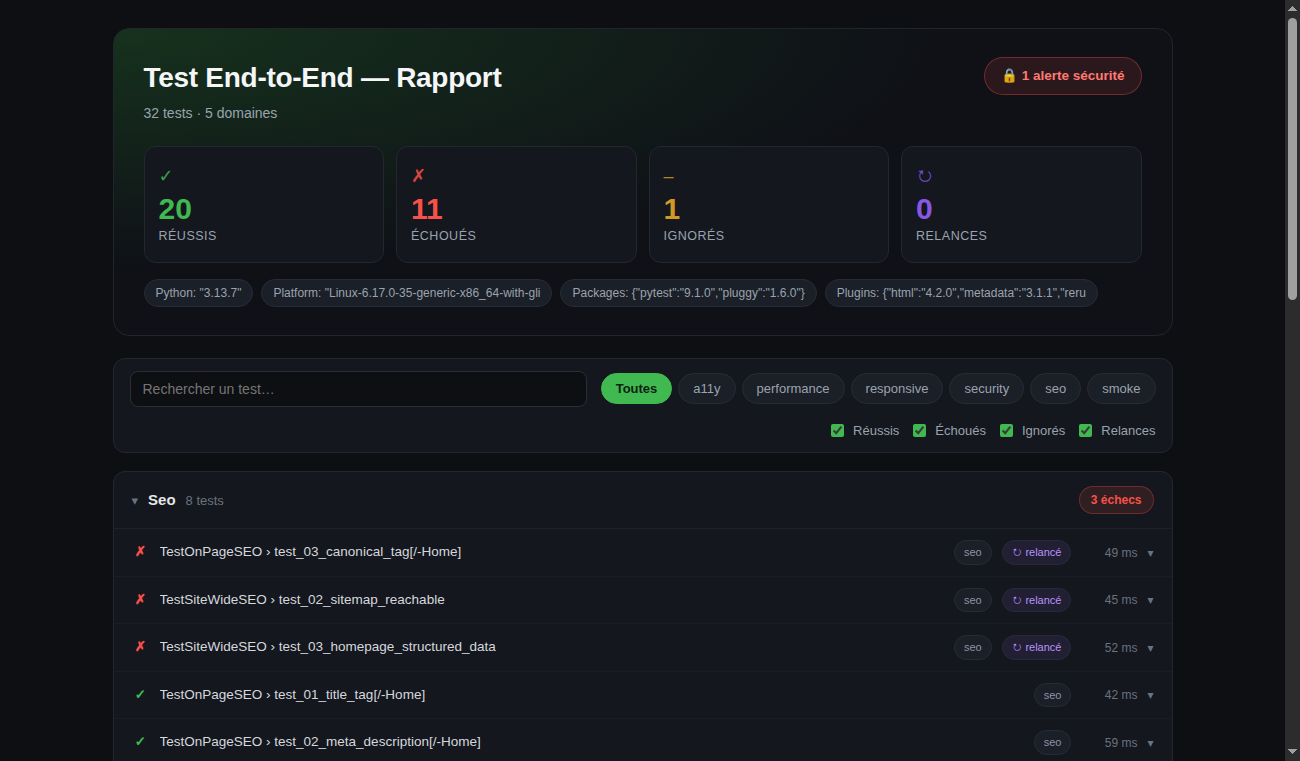
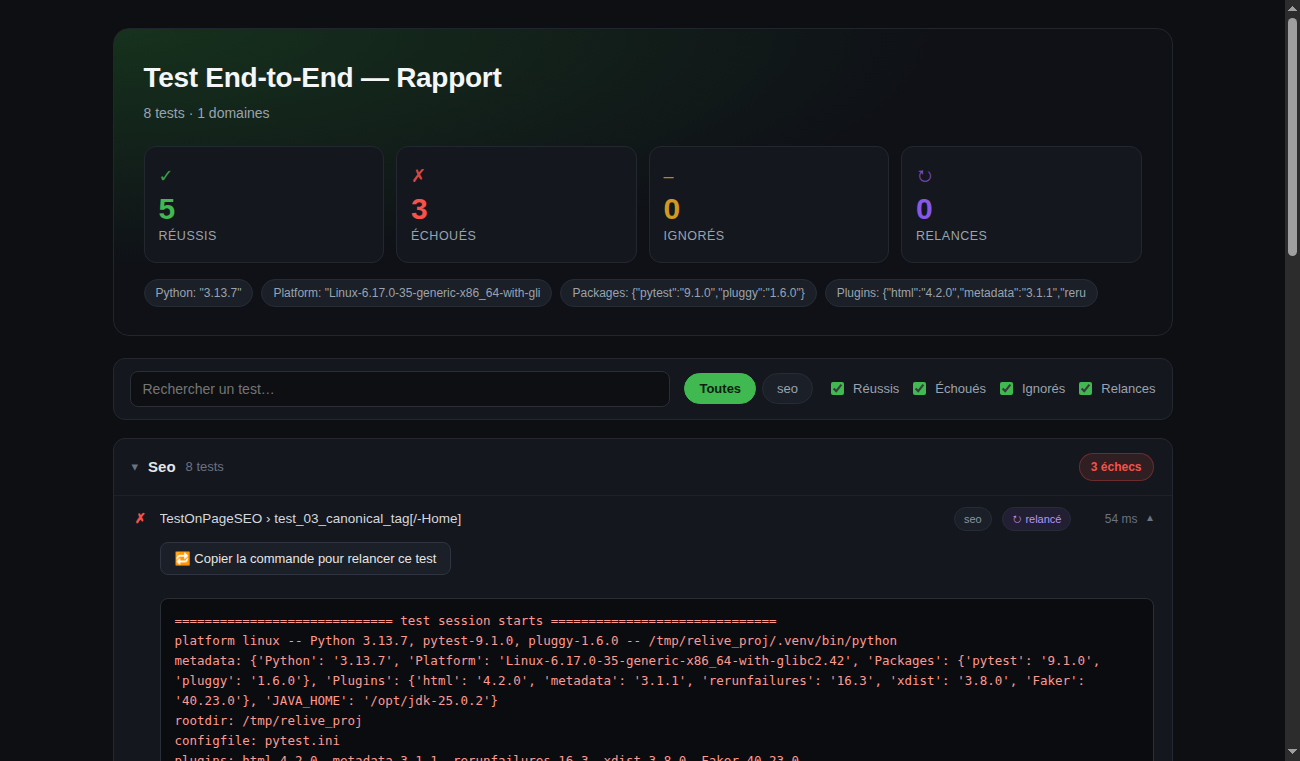
Lightbox image au clic + vrai bouton relance (live_server.py)
- report_theme.js : clic sur un screenshot l'ouvre en grand (overlay,
  Échap ou clic pour fermer)
- live_server.py (nouveau) : petit serveur local sans dépendance
  (stdlib http.server) qui sert tests/report.html ET expose
  POST /__rerun__ — quand le rapport est ouvert via ce serveur au lieu
  d'un double-clic sur le fichier, le bouton 'Relancer' exécute
  vraiment pytest pour CE test précis et met à jour la ligne en place
  (icône, log, compteurs du hero, badge du groupe) avec le vrai
  résultat. Sans serveur (fichier ouvert direct) : fallback silencieux
  vers la copie de commande, pas d'erreur affichée.
- Pourquoi pas avant : un fichier HTML statique (file://) n'a aucun
  backend, impossible d'exécuter du code depuis le navigateur seul —
  c'est la vraie limite, contournée ici en proposant un serveur local
  optionnel plutôt qu'en abandonnant la fonctionnalité.

Vérifié de bout en bout : live_server.py lancé, bouton cliqué via
Selenium, log serveur confirme 'POST /__rerun__ 200' + relance pytest
réelle, log affiché dans le rapport mis à jour avec la vraie sortie
de cette relance.

diff --git a/templates/e2e/report_theme.js b/templates/e2e/report_theme.js
@@ -192,6 +192,53 @@
     return root;
   }
 
+  function applyRerunResult(row, data) {
+    const oldResult = row.dataset.result;
+    const newResult = data.passed ? 'Passed' : 'Failed';
+    if (oldResult === newResult) {
+      // still the same bucket — just refresh the log text below
+      const log = row.querySelector('.tee-row__log');
+      if (log) log.textContent = data.output || log.textContent;
+      return;
+    }
+
+    row.classList.remove(`tee-row--${oldResult.toLowerCase()}`);
+    row.classList.add(`tee-row--${newResult.toLowerCase()}`);
+    row.dataset.result = newResult;
+    const icon = row.querySelector('.tee-row__icon');
+    if (icon) icon.textContent = RESULT_ICON[newResult] || '•';
+    const log = row.querySelector('.tee-row__log');
+    if (log) log.textContent = data.output || '';
+    const badge = document.createElement('span');
+    badge.className = 'tee-chip tee-chip--live';
+    badge.textContent = '🔄 relancé en direct';
+    row.querySelector('.tee-row__head').appendChild(badge);
+
+    // keep the hero stat cards honest after a live rerun
+    const bump = (key, delta) => {
+      const el = document.querySelector(`.tee-stat--${key.toLowerCase()} .tee-stat__value`);
+      if (el) el.textContent = String(Math.max(0, parseInt(el.textContent, 10) + delta));
+    };
+    bump(oldResult === 'Error' ? 'Failed' : oldResult, -1);
+    bump(newResult === 'Error' ? 'Failed' : newResult, 1);
+
+    // and the group's "N échecs" badge
+    const group = row.closest('.tee-group');
+    if (group) {
+      const stillBroken = group.querySelectorAll('.tee-row--failed, .tee-row--error').length;
+      const badgeEl = group.querySelector('.tee-chip--fail, .tee-chip--ok');
+      if (badgeEl) {
+        if (stillBroken > 0) {
+          badgeEl.className = 'tee-chip tee-chip--fail';
+          badgeEl.textContent = `${stillBroken} échec${stillBroken > 1 ? 's' : ''}`;
+        } else {
+          badgeEl.className = 'tee-chip tee-chip--ok';
+          badgeEl.textContent = 'OK';
+        }
+      }
+    }
+  }
+
   function wireInteractions(root) {
     // group collapse
     root.querySelectorAll('.tee-group__head').forEach((head) => {
@@ -204,26 +251,70 @@
       head.addEventListener('keydown', (e) => { if (e.key === 'Enter' || e.key === ' ') { e.preventDefault(); head.click(); } });
     });
 
-    // "relancer" button — copies the exact pytest command to the clipboard. A static HTML
-    // file genuinely cannot execute that command itself (no backend); this is the honest
-    // version of "make the button work": it performs a real, useful action.
+    // "relancer" button — tries a REAL re-run first via /__rerun__ (only answers if the
+    // report is opened through tests/live_server.py instead of double-clicked as a file).
+    // No server listening (plain file://, or report opened by just double-clicking it) →
+    // falls back to copying the exact pytest command, the next best honest thing.
     root.querySelectorAll('.tee-rerun-btn').forEach((btn) => {
       btn.addEventListener('click', (e) => {
         e.stopPropagation();
+        const row = btn.closest('.tee-row');
         const cmd = btn.dataset.cmd;
-        const original = btn.textContent;
-        const onOk = () => {
-          btn.textContent = '✓ Commande copiée — colle-la dans ton terminal';
-          btn.classList.add('is-copied');
-          setTimeout(() => { btn.textContent = original; btn.classList.remove('is-copied'); }, 2200);
+        const cmdMatch = cmd.match(/"([^"]+)"/);
+        const testId = cmdMatch ? cmdMatch[1] : '';
+        const original = btn.innerHTML;
+
+        const copyFallback = () => {
+          const onOk = () => {
+            btn.textContent = '✓ Commande copiée — colle-la dans ton terminal';
+            btn.classList.add('is-copied');
+            setTimeout(() => { btn.innerHTML = original; btn.classList.remove('is-copied'); }, 2200);
+          };
+          const onFail = () => { btn.textContent = `Copie manuelle : ${cmd}`; };
+          if (navigator.clipboard && navigator.clipboard.writeText) {
+            navigator.clipboard.writeText(cmd).then(onOk, onFail);
+          } else {
+            onFail();
+          }
         };
-        const onFail = () => { btn.textContent = `Copie manuelle : ${cmd}`; };
-        if (navigator.clipboard && navigator.clipboard.writeText) {
-          navigator.clipboard.writeText(cmd).then(onOk, onFail);
-        } else {
-          onFail();
-        }
+
+        btn.disabled = true;
+        btn.textContent = '⏳ relance en cours…';
+
+        fetch('/__rerun__', {
+          method: 'POST',
+          headers: { 'Content-Type': 'application/json' },
+          body: JSON.stringify({ testId }),
+        }).then((r) => {
+          if (!r.ok) throw new Error('no live server');
+          return r.json();
+        }).then((data) => {
+          applyRerunResult(row, data);
+          btn.disabled = false;
+          btn.textContent = data.passed ? '✓ relancé — réussi' : '✗ relancé — toujours en échec';
+          setTimeout(() => { btn.innerHTML = original; }, 2600);
+        }).catch(() => {
+          // No live_server.py running (plain static file) — that's expected most of the
+          // time, not an error to alarm about. Fall back silently to the copy action.
+          btn.disabled = false;
+          copyFallback();
+        });
       });
+    });
+
+    // Image lightbox — click a screenshot thumbnail to see it full size.
+    const lightbox = document.createElement('div');
+    lightbox.className = 'tee-lightbox';
+    lightbox.innerHTML = '<img alt="screenshot en grand">';
+    lightbox.addEventListener('click', () => lightbox.classList.remove('is-open'));
+    document.body.appendChild(lightbox);
+    document.addEventListener('keydown', (e) => { if (e.key === 'Escape') lightbox.classList.remove('is-open'); });
+    root.addEventListener('click', (e) => {
+      const img = e.target.closest('.tee-row__media img');
+      if (!img) return;
+      e.stopPropagation();
+      lightbox.querySelector('img').src = img.src;
+      lightbox.classList.add('is-open');
     });
 
     const state = { cat: '', q: '', results: new Set(['Passed', 'Failed', 'Skipped', 'Rerun']) };

diff --git a/templates/e2e/report-style.css b/templates/e2e/report-style.css
@@ -129,6 +129,17 @@ html, body {
 }
 .tee-rerun-btn:hover { background: #232a35; border-color: #3a4150; }
 .tee-rerun-btn.is-copied { background: rgba(63, 185, 80, .15); border-color: #3fb950; color: #3fb950; }
+.tee-rerun-btn:disabled { opacity: .6; cursor: wait; }
+
+.tee-chip--live { background: rgba(88, 166, 255, .12); color: #79c0ff; border-color: rgba(88,166,255,.35); font-size: 11px; padding: 3px 9px; }
+
+/* Image lightbox — click a screenshot thumbnail to see it full size */
+.tee-lightbox {
+  position: fixed; inset: 0; background: rgba(5, 6, 8, .9); display: none;
+  align-items: center; justify-content: center; z-index: 100; cursor: zoom-out; padding: 30px;
+}
+.tee-lightbox.is-open { display: flex; }
+.tee-lightbox img { max-width: 92vw; max-height: 92vh; border-radius: 10px; box-shadow: 0 24px 70px rgba(0,0,0,.6); cursor: default; }
 
 .tee-empty-state { text-align: center; color: #6b7280; padding: 60px 0; font-size: 14px; }
 .tee-empty-state:not([hidden]) { display: block; }

diff --git a/templates/e2e/live_server.py b/templates/e2e/live_server.py
@@ -1,0 +1,89 @@
+#!/usr/bin/env python3
+"""Optional live server — serves tests/report.html AND makes its "Relancer" button actually
+re-run the single test via a local /__rerun__ endpoint, instead of just copying the command.
+
+A plain `file://tests/report.html` has no backend to talk to — a browser can't execute
+pytest by itself. This is the difference: open the report through this server instead of
+double-clicking the file, and the button does the real thing.
+
+Usage:
+    python3 tests/live_server.py            # http://localhost:8765/tests/report.html
+    python3 tests/live_server.py 9000        # custom port
+"""
+import http.server
+import json
+import socketserver
+import subprocess
+import sys
+from pathlib import Path
+
+ROOT = Path(__file__).parent.parent
+PORT = int(sys.argv[1]) if len(sys.argv) > 1 else 8765
+
+
+class Handler(http.server.SimpleHTTPRequestHandler):
+    def __init__(self, *args, **kwargs):
+        super().__init__(*args, directory=str(ROOT), **kwargs)
+
+    def log_message(self, fmt, *args):
+        if '/__rerun__' in (self.path or ''):
+            super().log_message(fmt, *args)
+        # stay quiet for static asset requests — keeps the terminal readable
+
+    def _send_json(self, status, payload):
+        body = json.dumps(payload).encode('utf-8')
+        self.send_response(status)
+        self.send_header('Content-Type', 'application/json')
+        self.send_header('Content-Length', str(len(body)))
+        self.send_header('Access-Control-Allow-Origin', '*')
+        self.end_headers()
+        self.wfile.write(body)
+
+    def do_OPTIONS(self):
+        self.send_response(204)
+        self.send_header('Access-Control-Allow-Origin', '*')
+        self.send_header('Access-Control-Allow-Methods', 'POST, OPTIONS')
+        self.send_header('Access-Control-Allow-Headers', 'Content-Type')
+        self.end_headers()
+
+    def do_POST(self):
+        if self.path != '/__rerun__':
+            self._send_json(404, {'error': 'not found'})
+            return
+        length = int(self.headers.get('Content-Length', 0) or 0)
+        try:
+            data = json.loads(self.rfile.read(length) or b'{}')
+        except Exception:
+            data = {}
+        test_id = data.get('testId', '')
+        if not test_id:
+            self._send_json(400, {'error': 'testId manquant'})
+            return
+        print(f'[live] relance : {test_id}')
+        try:
+            result = subprocess.run(
+                [sys.executable, '-m', 'pytest', test_id, '-v', '--tb=short', '-p', 'no:cacheprovider'],
+                cwd=str(ROOT), capture_output=True, text=True, timeout=120,
+            )
+            self._send_json(200, {
+                'passed': result.returncode == 0,
+                'output': (result.stdout + result.stderr)[-4000:],
+            })
+        except subprocess.TimeoutExpired:
+            self._send_json(200, {'passed': False, 'output': 'Timeout après 120s.'})
+        except Exception as e:
+            self._send_json(500, {'error': str(e)})
+
+
+def main():
+    with socketserver.ThreadingTCPServer(('127.0.0.1', PORT), Handler) as httpd:
+        print(f'[live] Rapport : http://localhost:{PORT}/tests/report.html')
+        print('[live] Le bouton "Relancer" exécute vraiment le test depuis ce serveur. Ctrl+C pour arrêter.')
+        try:
+            httpd.serve_forever()
+        except KeyboardInterrupt:
+            print('\n[live] arrêté.')
+
+
+if __name__ == '__main__':
+    main()

diff --git a/templates/e2e/README.md b/templates/e2e/README.md
@@ -79,7 +79,19 @@ cp tests/pytest.ini.project-root pytest.ini
 TEST_HEADLESS=0 ./tests/run.sh          # visible browser (debug)
 ```
 
-Report: `tests/report.html` (self-contained, dark themed via `report-style.css`). Every failure embeds its screenshot + last console errors **directly in the report row** — no separate folder to dig through. A **Category** column (security/seo/a11y/responsive/performance/admin/stripe/smoke) makes it obvious at a glance what kind of issue failed — security rows get a red 🔒 badge. Every assertion message in `utils/security_checks.py` and `utils/seo_checks.py` explains **what's wrong, why it matters, and how to fix it** — not just "assert failed". Every `pytest.skip()` in this template carries an explicit reason, shown in the report, so a skip never looks like a silent gap. JUnit XML at `tests/junit.xml` for CI.
+Report: `tests/report.html` (self-contained, dark themed via `report-style.css`). Every failure embeds its screenshot + last console errors **directly in the report row** — no separate folder to dig through, click a screenshot to see it full size. A **Category** column (security/seo/a11y/responsive/performance/admin/stripe/smoke) makes it obvious at a glance what kind of issue failed — security rows get a red 🔒 badge. Every assertion message in `utils/security_checks.py` and `utils/seo_checks.py` explains **what's wrong, why it matters, and how to fix it** — not just "assert failed". Every `pytest.skip()` in this template carries an explicit reason, shown in the report, so a skip never looks like a silent gap. JUnit XML at `tests/junit.xml` for CI.
+
+### Actually re-running a test from the report ("Relancer")
+
+Double-clicking `tests/report.html` opens a plain `file://` page — no backend, so the rerun button there can only copy the pytest command to your clipboard (still genuinely useful, just not a real execution).
+
+For a button that **actually re-runs the test**, serve the report through the included tiny local server instead of opening the file directly:
+
+```bash
+python3 tests/live_server.py            # http://localhost:8765/tests/report.html
+```
+
+Open that URL (not the file) — the same button now POSTs to `/__rerun__`, the server runs `pytest <that one test>` for real, and the row updates in place (icon, log, stat cards) with the actual new result. No server running → same button silently falls back to the clipboard-copy behavior, no error shown.
 
 ## Scaling to 1000+ tests
 